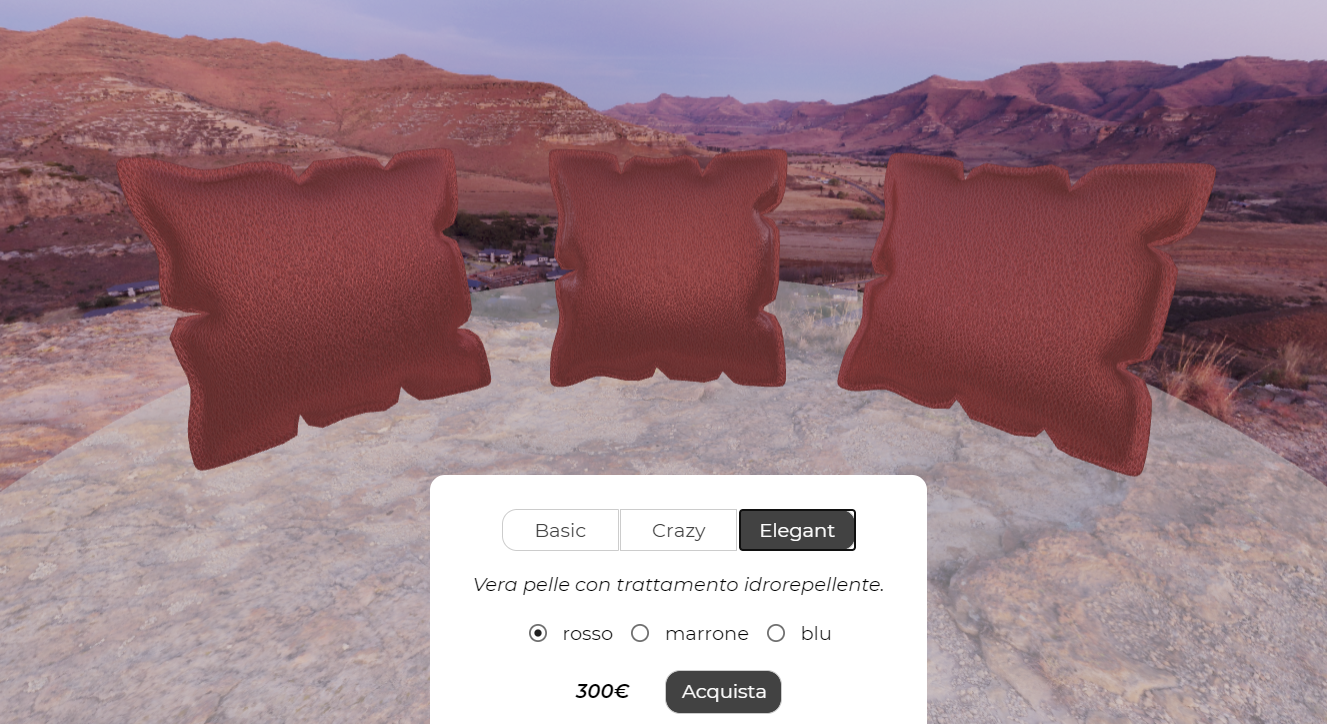
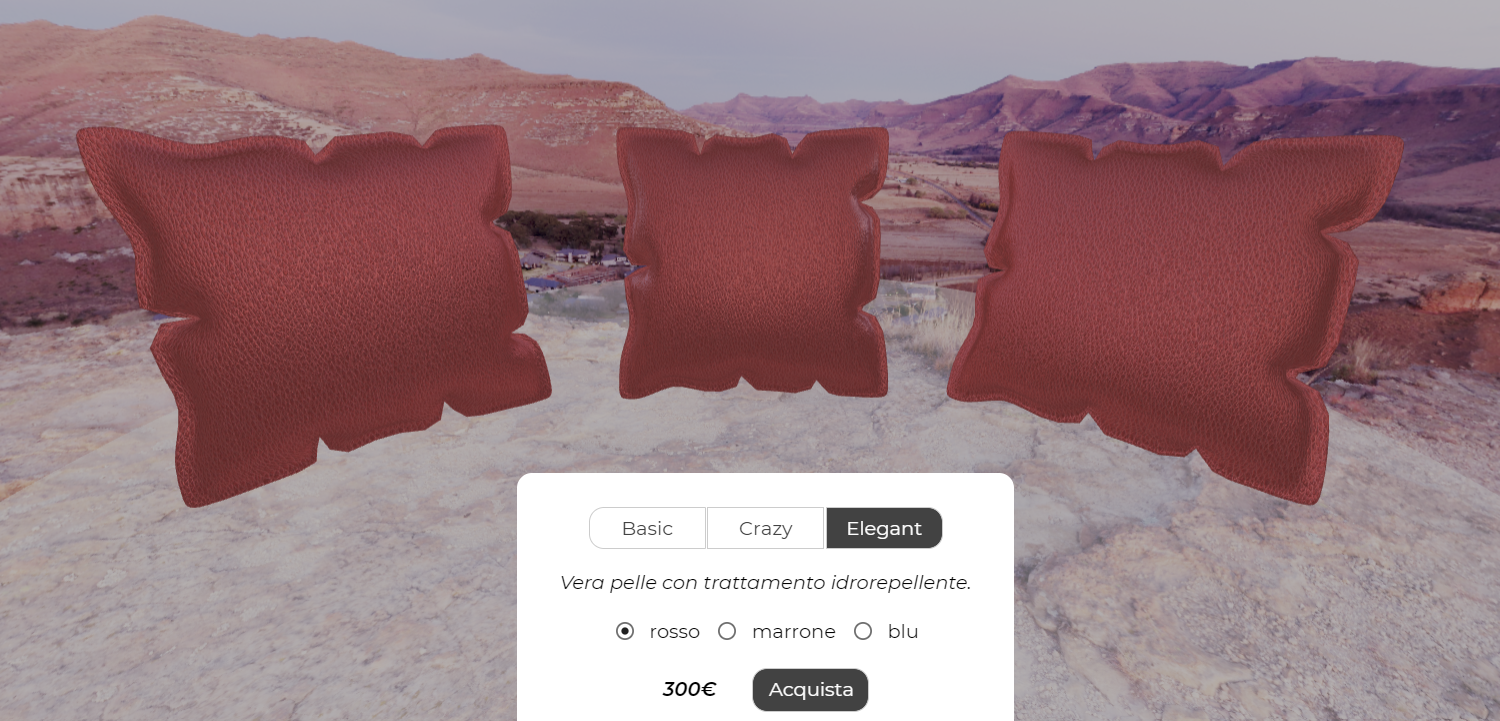
aggiunte readme e eliminazione alcuni screenshots

diff --git a/index.html b/index.html
@@ -564,7 +564,7 @@
 			scene.background = textureCubeSunset;
 
 			// tone mapping
-			renderer.toneMapping = THREE.LinearToneMapping;
+			renderer.toneMapping = THREE.ACESFilmicToneMapping;
 
 		
 			
@@ -625,6 +625,7 @@
 
 			controls = new THREE.OrbitControls(camera, renderer.domElement);
 			controls.enablePan = false;
+			controls.maxPolarAngle = Math.PI/2;
 			controls.minDistance = 200;
 			controls.maxDistance = 400;
 			controls.addEventListener('change', Render);

diff --git a/README.md b/README.md
@@ -2,25 +2,22 @@
 
 ![scena con cuscini con tessuto cotone](imgs/scena_cotone.png)
 
-Il progetto consiste in un configuratore per visualizzare e personalizzare un set di cuscini venduto dall'azienda ACME. L'utente può modificare la tipologia e il colore del tessuto di rivestimento. I tessuti a disposizione sono:
+Il progetto consiste in un configuratore per visualizzare e personalizzare il set di cuscini "Sunset" venduto dall'azienda ACME. L'utente può modificare la tipologia e il colore del tessuto di rivestimento. I tessuti a disposizione sono:
 - cotone verde, rosa e azzurro
 - tessuto metallizzato verde, viola e blu
 - pelle rossa, marrone e blu.
 
-L'utente può osservare da più punti di vista il set di cuscini zoomando e ruotando la telecamera tramite l'uso del mouse.
+L'utente può osservare da più punti di vista il set di cuscini zoomando e ruotando la telecamera tramite l'uso del mouse. Per coerenza col titolo del set di cuscini, i modelli appaiono inseriti in un ambiente al tramonto.
 
-- overall description: what your project is about and the files it uses.
-- results, including images of the scenes created, taken in a way that clearly illustrates that they satisfy the specification.
-- brief explanation of the process that you used to make your scene. Include tools, assets, and planning steps.
 
 ## File
 Il progetto consiste nei seguenti file:
-- index.hmtl: pagina web che contiene il configuratore
-- css: cartella contenente il file css style.css
-- imgs: cartella per il logo ACME e le immagini contenute nel readme e nel journal
+- index.html: pagina web che contiene il configuratore
+- css: cartella contenente il file style.css
+- imgs: cartella contenente il logo ACME e le immagini contenute nel readme e nel journal
 - libs: cartella contenente i file javascript necessari al funzionamento del configuratore
     - file per il funzionamento di three.js
-    - libreria BufferedGeometryToIndexed.js ([fonte](https://github.com/Fyrestar/THREE.BufferGeometry-toIndexed)) necessaria per indicizzare il modello 3D
+    - funzione toIndexed() ([fonte](https://github.com/Fyrestar/THREE.BufferGeometry-toIndexed)) necessaria per rendere indexed la geometria del modello
 - models: cartella contenente il file 3D del cuscino
 - textures: cartella contenente le texture dei materiali e la cubemap
 
@@ -33,74 +30,40 @@ Esempi di configurazioni:
 ![cusini cotone verde](imgs/cotone_blu.png)
 
 ### Tessuto metallizzato trapuntato
-![cusini metallizzati viola](imgs/shiny_viola_ruotato.png)
+![cusini metallizzati viola](imgs/shiny_viola.png)
 
 ### Pelle
 ![cusini pelle rossa](imgs/pelle_rossa.png)
 
 
+## Implementazione
 
-## Hints
+### modello
+Ho optato per posizionare tre istanze dello stesso modello OBJ su un piano semitrasparente che non vuole essere un vero e proprio piano di appoggio (non presenta infatti le ombre dei cuscini) ma solo un elemento grafico decorativo. Per rendere possibile a three.js calcolare le tangenti dell'oggetto da passare al vertex shader è stato necessario usare la funzione [BufferGeometryToIndexed.js](https://github.com/Fyrestar/THREE.BufferGeometry-toIndexed) trovata online.
 
-- Try to work out a basic project which satisfies all requirements well before the deadline and as soon as possible: you will then use the remaining time to refine, improve and polish.
-- If you are stuck for too much time on a problem, ask for help, preferably in the forum.
-- the process is as important as the result. Use this project to learn a workflow, and how to use tools effectively. Experiment, and try to come up with efficient, elegant, and well commented code.
-- commit often in your git repository and with meaningful comments.
-- do not choose too complex products with many materials. 3-4 materials are enough.
+### shader
+Il progetto prevede un vertex shader e tre fragment shader (mai eseguiti contemporaneamente). A seconda del materiale selezionato dall'utente, il vertex shader comunica con un fragment shader diverso:
+- Un fragment shader lambertiano per simulare il cotone. Fa uso di diffuse map, normal map, roughness map e ao map.
+- Un microfacet fragment shader per simulare il tessuto metallizzato. Fa uso di normal map, roughness map e ao map.
+- Uno fragment shader che combina BRDF lambertiana e BRDF speculare per simulare la pelle. Fa uso di diffuse map, specular map, normal map, roughness map e ao map.
 
+Tutti e tre gli shader considerano la luce proveniente da tre point lights (posizionate in modo tale da illuminare sia fronte sia retro dei modelli) e considerano nel calcolo dell'illuminazione anche i dati di una environment map: si tratta di una latlong map scaricata dal sito [HdriHaven](https://hdrihaven.com) e poi convertita in cubemap tramite il tool online [HDRI to Cubemap](https://matheowis.github.io/HDRI-to-CubeMap/).
 
-## Goals
+### tone mapping
+Si è scelto di applicare alla scena un tone mapping di tipo ACES Filmic.
 
-The well-known ACME company has asked you to build a product **Web visualizer / configurator** for its new e-commerce site. Before giving you the job, ACME wants to evaluate how faithfully you can visualize and configure products.  ACME sells everything, so you can choose whatever kind of product you want for the demonstration.
+### textures
+Le texture usate sono state scaricate dai siti [Sharetextures](www.sharetextures.com) e [TextureCan](https://www.texturecan.com). Per creare le variazioni di colore dei tessuti si è modificata, nel caso del cotone e della pelle, la diffuse map tramite Photoshop; mentre le variazioni del colore del tessuto metallizzato sono ottenute modificando il vettore che modella la componente speculare della riflessione.
 
-Your goal is to build a Web application (a HTML page) that:
-
-- visualizes a product in 3D using three.js, using PBR equations and materials;
-- allows the user to inspect the product (e.g. by orbiting the camera around it), and change some material on it by choosing from a few alternatives.
-
-Try to make it look like a simple, but real portion of an e-commerce site, not a three.js example: choose carefully colors, fonts, images, and icons, also taking inspiration from real web sites. Before starting, search the web for existing 3D configurators. Note down what you like and don't like, and try to produce a result as professional as possible.
-
-## Steps (read CAREFULLY)
-
-1. Prepare, and add to the repository, a journal.md file for logging your progress and choices.
-
-2. Choose a product for which: (i) you can easily build a 3D model, or (ii) you can download a 3D model which you have the right to use in non-commercial applications. The model should not be too complex (not more than 100k vertices) and in some format that three.js can read. [Three.js examples](https://threejs.org/examples/) provide a list of loaders for different formats: beware that not all of them work perfectly, and you might have to try with different formats. Preferably, use GLTF, but any other format is ok.
-
-3. Design the lighting for the product. Products in web sites and catalogues are photographed using strategically placed lights that enhance details and shape. For example, [searching google images for product photography lighting](http://www.google.com/images?q=product+photography+lighting) will show you a number of real-world lighting setups that are used for products. In your lighting setup, you can use whatever you want, from punctual lights, to environment map, or light maps, or any combination of them, but you *must include* an environment map.
-
-4. Design the PBR materials for the product. You can use PRB textures found anywhere, or produce them, e.g. with Substance Designer or B2M. If you use textures authored by someone else, just make sure you have the rights for using them in our context (non-commercial application). At least one of the materials must have 2-3 alternatives (e.g. different colors, or materials).
-
-5. Include tone mapping and, if needed, post-processing/color correction.
-
-6. Build the application that renders the chosen 3D model, with the designed lighting setup and materials, and an user interface for selecting the material between the alternatives. You must use shaders written by you, e.g. by extending the shaders we saw in the classroom. Your report needs to describe the kind of BRDF / lights you have implemented.
-
-7. If possible, try to take into account implicit requirements as well. For example, you cannot use textures with file sizes of dozens of megabytes for a Web site; and also, your page should render at least at 30 fps on average smartphones. You will get bonus points for a result that could be deployed to a Web site with few or no modifications.
-
-8. (optional) include any technique that was not explained in the classroom, e.g. some special shader or post-processing technique. This will award you extra points in the evaluation.
-
-9. Write a concise report by overwriting this file.
-
-
-
-
-You are required to document your project in two ways:
-
-- maintain a journal (in a file called journal.md) describing key design decisions, changes, bug symptoms and solutions, including screenshots.
-- create a report (by overwriting this file).
-
-
-## Constraints
-
- mention any source of inspiration in your journal and final report.
-
-
-
+### gui
+La presenza di un menù web nella parte superiore della schermata simula l'inserimento del configuratore all'interno del sito web dell'azienda ACME. Nel definire l'interfaccia per la modifica dei materiali, posta nella parte centrale inferiore dello schermo, si è cercato di immaginare di rivolgersi a un pubblico di potenziali acquirenti di un sito che vende oggetti di design. È all'interno di quest'ottica che si colloca la scelta dei nomi creativi dei materiali ("Basic", "Crazy", "Elegant") e del set di cuscini ("Sunset").
 
 
 ## Credits
 
-[Modello del cuscino](https://www.turbosquid.com/3d-models/cushion-sofa-pillow-3d-model-1222929) (Turbosquid.com)
-[Texture cotone](https://www.sharetextures.com/textures/fabric/light-green-fabric-52/) (sharetextures.com)
-[Texture tessuto metallizzato](https://www.texturecan.com/details/144/) (texturecan.com)
-[Texture pelle](https://www.sharetextures.com/textures/fabric/leather-3/) (sharetextures.com)
-Libreria [BufferGeometryToIndexed.js](https://github.com/Fyrestar/THREE.BufferGeometry-toIndexed)
+[Modello del cuscino](https://www.turbosquid.com/3d-models/cushion-sofa-pillow-3d-model-1222929)
+[Texture cotone](https://www.sharetextures.com/textures/fabric/light-green-fabric-52/) 
+[Texture tessuto metallizzato](https://www.texturecan.com/details/144/)
+[Texture pelle](https://www.sharetextures.com/textures/fabric/leather-3/) 
+[Cubemap](https://hdrihaven.com/hdri/?c=outdoor&h=kiara_1_dawn) 
+Funzione [BufferGeometryToIndexed.js](https://github.com/Fyrestar/THREE.BufferGeometry-toIndexed)
